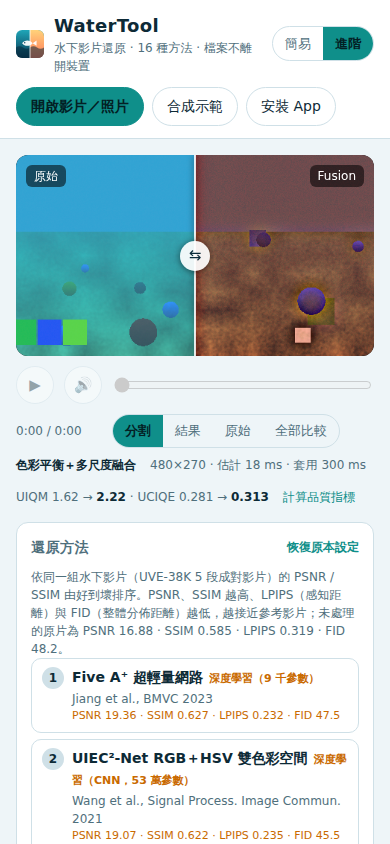
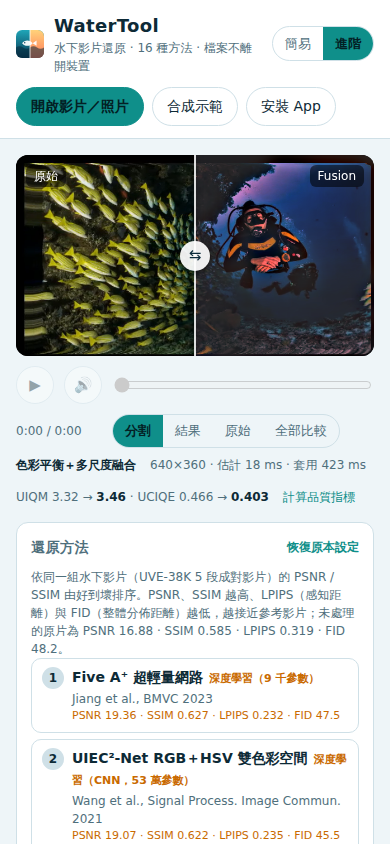
Fix watchdog restart loop on slow model downloads; lock settings during export; release old media
- Download progress now counts as the worker being alive. On a ~2 Mbps
  connection the first model download takes longer than the 40 s
  watchdog, which restarted the worker and the download from zero, so
  the model never finished loading (reproduced with throttled network).
- While exporting, the method list, parameters, temporal, edit and
  output controls are inert and selectMethod is a no-op. Per-frame,
  photo and batch exports read the live settings every frame, so a
  change mid-export mixed two settings in one file.
- Opening a new file releases the previous video (blob URL and decoder)
  and closes the previous photo bitmap.
- The model note follows prefetch progress when prefetch is the one
  downloading the current model or the ONNX runtime.

Claude-Session: https://claude.ai/code/session_01CRjmNfKH33Gjkydw4cPcVw

diff --git a/app.js b/app.js
@@ -28,8 +28,9 @@ function call(msg, transfer = []) {
 }
 function onWorkerMessage(e) {
   const m = e.data;
-  // 只有回覆請求（或 alive）才算「有在處理」；模型下載進度不算，否則卡死時看門狗會被騙過
-  if (m.type !== 'prefetch' && m.type !== 'model') lastHeard = performance.now();
+  // 回覆、alive 與下載進度都算「有在處理」：背景執行緒真的卡住（運算卡死）時什麼訊息都送不出來。
+  // 下載進度一定要算 —— 慢速網路第一次下載模型會超過 WATCHDOG，以前會被當成卡死、重新啟動後從頭下載，永遠下載不完
+  if (m.type !== 'model' || m.state === 'progress') lastHeard = performance.now();
   if (m.type === 'alive') return;
   if (m.type === 'model') return onModel(m);
   if (m.type === 'prefetch') return onPrefetch(m);
@@ -801,9 +802,11 @@ async function openFile(file) {
   try {
     if (file.type.startsWith('image/') || /\.(jpe?g|png|webp|heic|bmp)$/i.test(file.name)) {
       const bitmap = await createImageBitmap(file);
+      if (!batchRunning) releaseVideo(); // 放掉之前影片佔用的解碼器與記憶體（手機上很吃緊）
       setSource({ kind: 'image', bitmap, w: bitmap.width, h: bitmap.height, file, name: file.name });
       return true;
     }
+    if (video.src) releaseVideo(); // 先放掉之前的影片（連同它的 blob 網址；以前每開一部就留下一個）
     // 播放器偶爾暫時打不開（剛匯出完大影片：解碼器、記憶體還沒釋放）→ 放掉舊影片、等一下再試
     const waits = batchRunning ? [1000, 3000, 6000] : [800];
     let err = null;
@@ -944,6 +947,8 @@ async function applyLocalCopy() {
 }
 
 function setSource(src) {
+  const prev = state.src;
+  if (prev && prev !== src && prev.kind === 'image' && prev.bitmap) prev.bitmap.close?.(); // 舊照片的點陣圖
   // 使用者開啟新的影片（不是多部匯出依序開啟、也不是回到 App 內副本）：在背景複製到 App 裡
   if (!batchRunning) startLocalCopy(src);
   state.src = src;
@@ -1105,6 +1110,7 @@ function setMode(mode) {
 $('modeSimple').onclick = () => setMode('simple');
 $('modeAdvanced').onclick = () => setMode('advanced');
 function selectMethod(id) {
+  if (exporting) return; // 匯出中不換方法（介面也已鎖住）
   if (id !== state.method) restoreDefaults(id, false); // 換方法：除了輸出格式（解析度、匯出方式、編碼）與剪輯以外都回到原本設定
   state.method = id;
   renderMethods();
@@ -1219,6 +1225,11 @@ function onModel(m) {
 // 第一次開啟就在背景把 ONNX 執行環境與全部深度模型存進本機（已存在的略過），之後選用免等待、可離線。
 function onPrefetch(m) {
   const box = $('prefetch'), bar = $('prefetchBar');
+  const cur = byId[state.method];
+  // 目前方法的模型（或共用的 ONNX 執行環境）正由預先下載負責：模型狀態也跟著顯示進度，不要停在舊的百分比
+  if (!m.done && cur.needsModel && !state.models.has(cur.model.file) && !$('modelState').hidden && (m.file.endsWith(cur.model.file) || m.file.includes('ort-wasm'))) {
+    showModelNote(`下載中… ${m.file.includes('ort-wasm') ? 'ONNX 執行環境' : cur.short + ' 模型'}（預先下載全部模型 ${(m.got / 1e6).toFixed(1)} / ${(m.total / 1e6).toFixed(0)} MB）`);
+  }
   if (!m.done) {
     box.hidden = false;
     bar.hidden = false;
@@ -1339,9 +1350,15 @@ async function exportCurrent() {
 const exportErrorText = (err) => (isReadError(err)
   ? '手機無法再讀取原片（' + err.message + '）。請按「開啟影片／照片」重新選一次這支影片再匯出。'
   : err.message);
+const exportLocked = () => {
+  const out = $('export').closest('.card');
+  return [...document.querySelectorAll('.panel > .card, .mode, #compare')].filter((el) => el !== out && !el.classList.contains('about')).concat(out.querySelector('.controls'));
+};
 /** 匯出中：鎖住會改變素材的按鈕 */
 function exportUi(on) {
   exporting = on;
+  // 匯出時鎖住方法與所有設定：逐格匯出、多部匯出每一格都讀目前的設定，中途改了會前後不一致
+  for (const el of exportLocked()) el.inert = on;
   if (!on) setTimeout(applyLocalCopy, 0); // 匯出時複製完成的副本：現在換上
   $('prog').hidden = !on;
   if (on) $('prog').value = 0;

diff --git a/sw.js b/sw.js
@@ -2,7 +2,7 @@
 // - App 程式（HTML/JS/CSS…）：網路優先，失敗時用快取；快取名稱隨版本更新（APP_CACHE），舊版自動清除。
 // - 深度模型（models/*.onnx）與 ONNX 執行環境 WASM：由 worker.js 存在獨立的 MODEL_CACHE，
 //   App 更新不會清掉，只下載一次；這裡不攔截這兩個檔案。
-const APP_CACHE = 'watertool-app-v40';
+const APP_CACHE = 'watertool-app-v41';
 const MODEL_CACHE = 'watertool-models-v1'; // 與 worker.js 相同
 const PERSISTENT = /\/(models\/[^/]+\.onnx|vendor\/ort\/ort-wasm-simd-threaded\.wasm)$/;
 const SHELL = ['./', 'index.html', 'style.css', 'app.js', 'player-gl.js', 'worker.js', 'copy-worker.js', 'manifest.webmanifest', 'icons/icon.svg',

diff --git a/README.md b/README.md
@@ -63,7 +63,8 @@ node scripts/net-speed.mjs --extra > s.json && node scripts/mobile-report.mjs --
 5. **第一次開啟會在背景下載全部 8 個深度模型與執行環境（約 51 MB）** 存到本機，頂端會顯示進度；之後選用免等待、可離線。
 6. **影片時間一致性**：τ（參數平滑時間）、輸出去閃爍強度、每 N 幀重新估計（FUnIE-GAN 預設 4）。
 7. **不會卡住**：背景運算一個一個排隊（同一個模型不會同時推論）；若超過 40 秒沒有回應（例如手機記憶體不足），
-   會自動重新啟動並重算目前畫面；播放中重新啟動時，播放的色彩計算也會自己接回。手機收回 GPU 畫布時自動改用逐幀處理，影片不會停住。
+   會自動重新啟動並重算目前畫面；播放中重新啟動時，播放的色彩計算也會自己接回。下載模型中（慢速網路第一次下載可能超過 40 秒）不算沒有回應。
+   匯出時方法與所有設定會鎖住，避免逐格／多部匯出中途換設定造成前後不一致。手機收回 GPU 畫布時自動改用逐幀處理，影片不會停住。
    暫停瞬間先用這一格的 GPU 結果當暫時畫面，完整計算完成再取代（拖分隔線不會露出舊畫面）。
    ONNX 多執行緒只在桌機開；手機一律單執行緒（多執行緒在手機上曾讓背景卡死）。
    關鍵幀（Diverout_sim、快速匯出）用 Mediabunny 直接解碼取得，不依賴看不見的 `<video>`（手機瀏覽器常不替它載入資料，以前會停在「分析關鍵幀」）。
